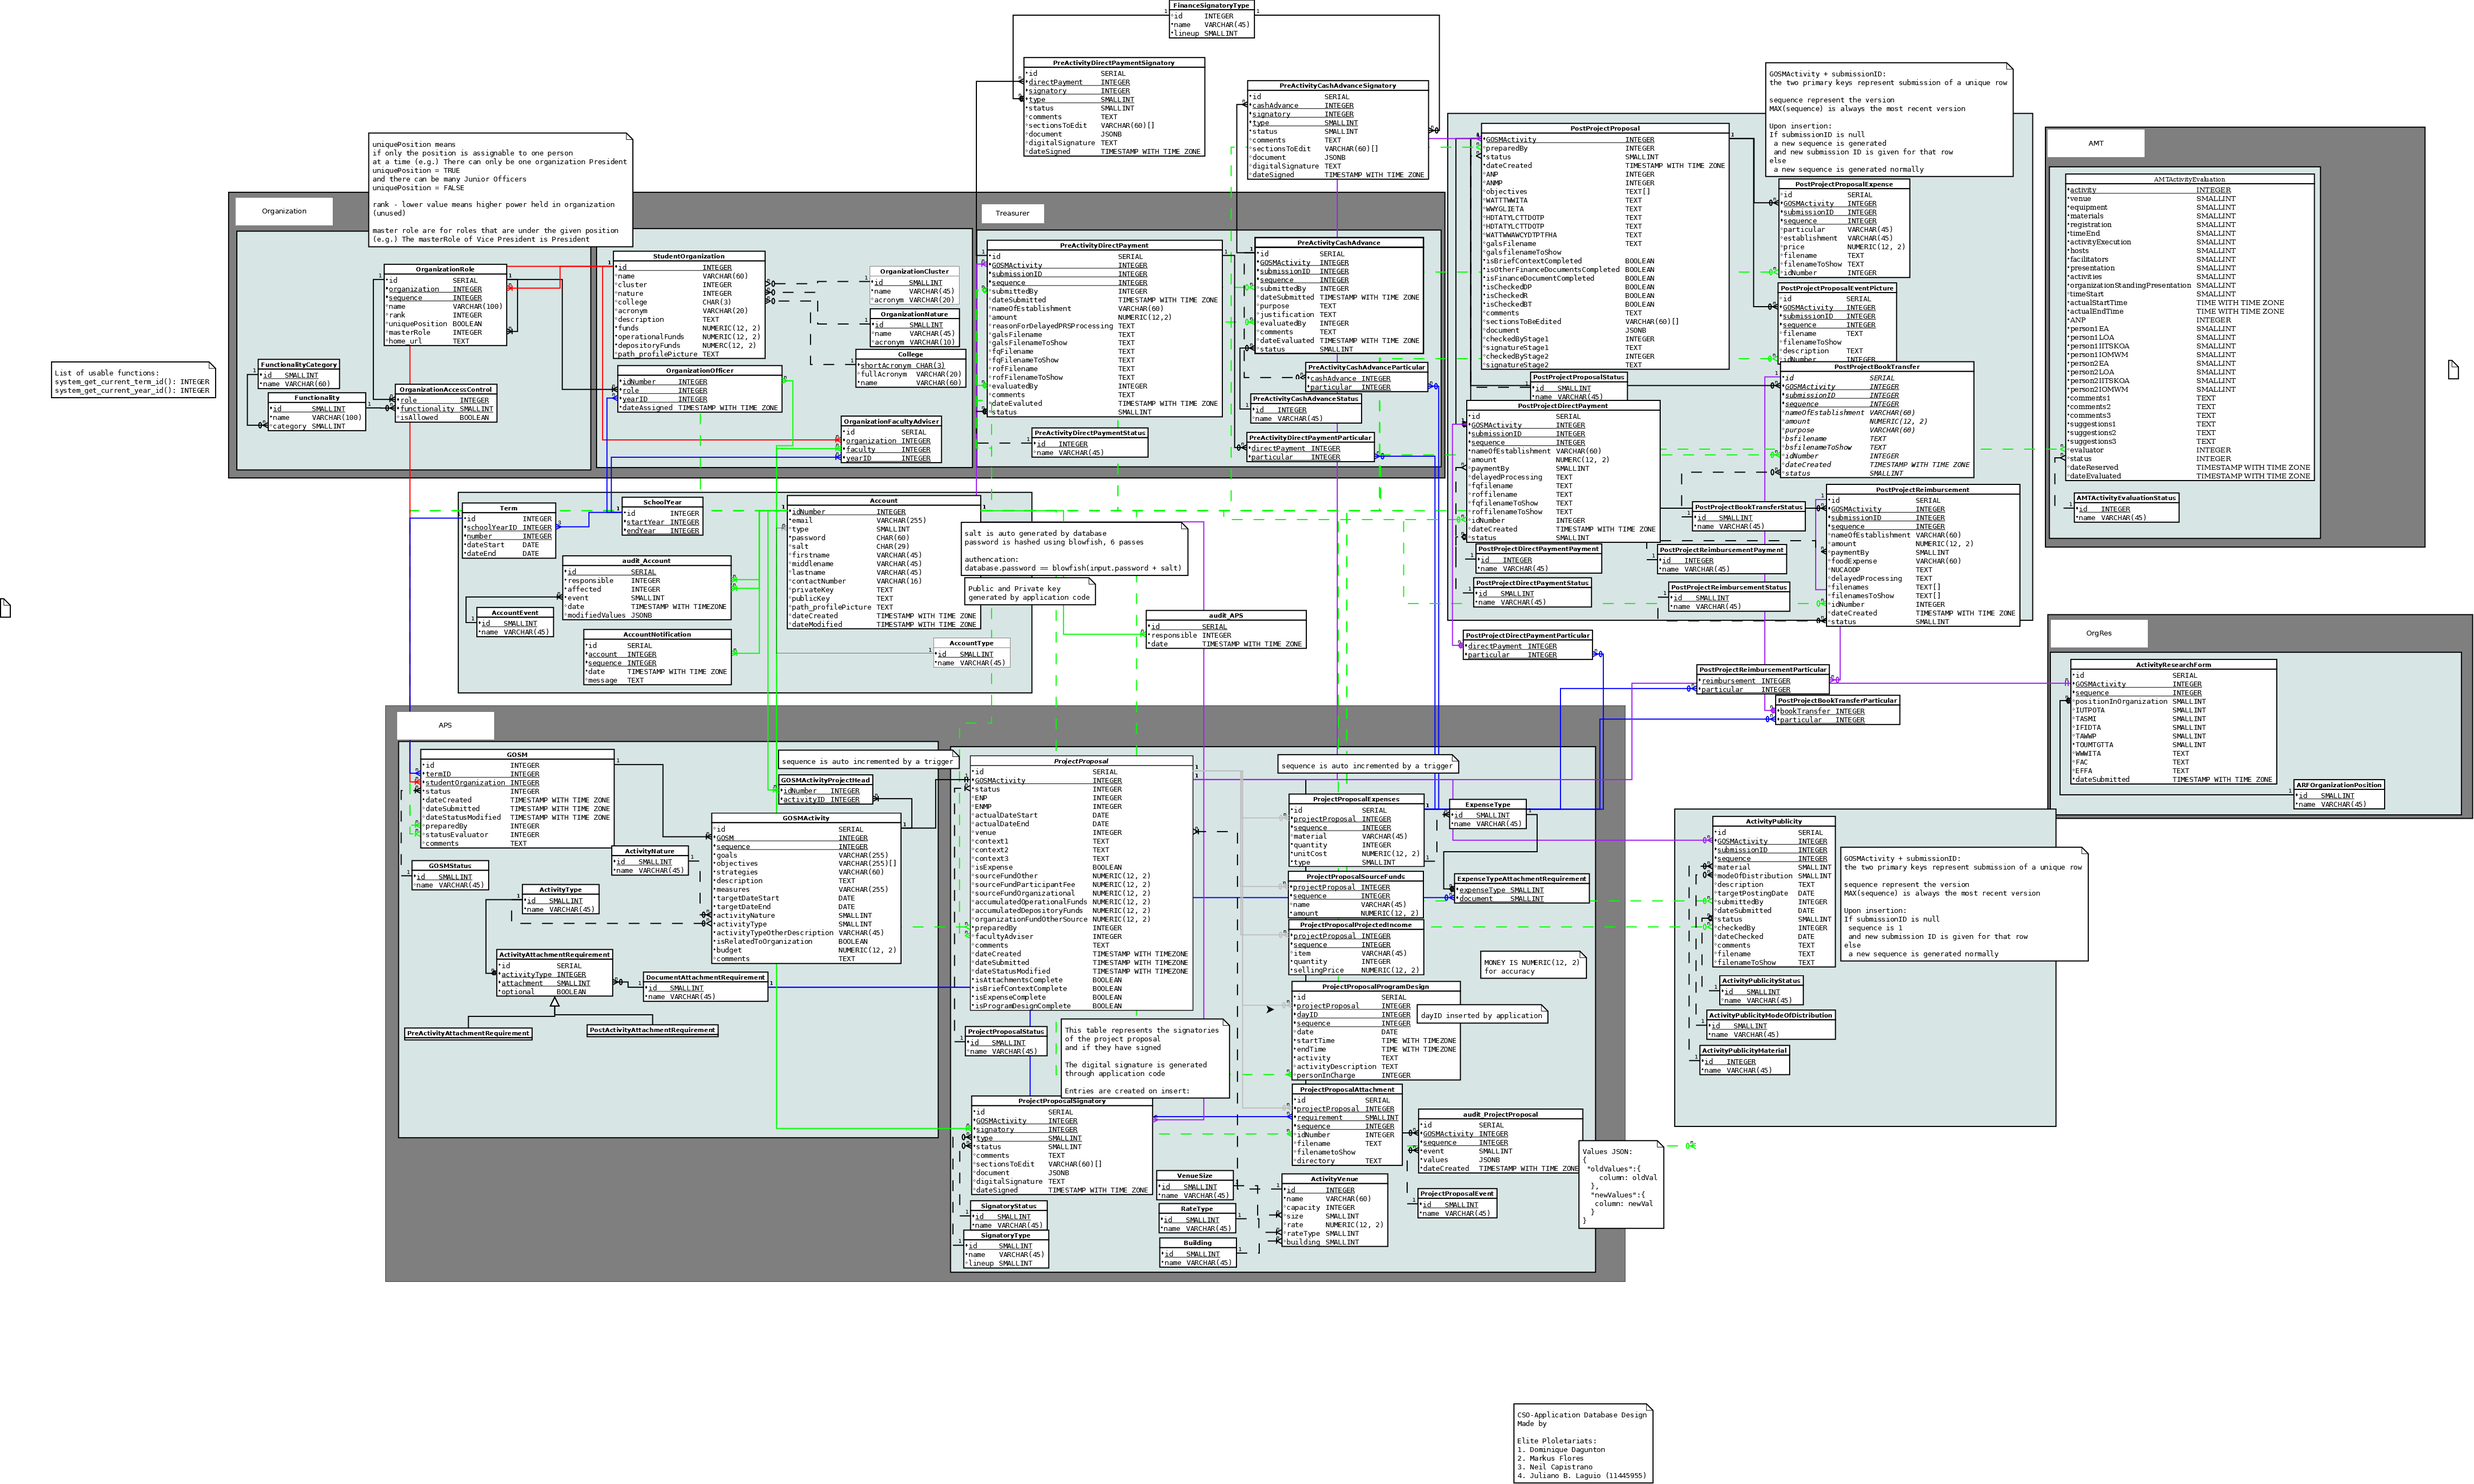
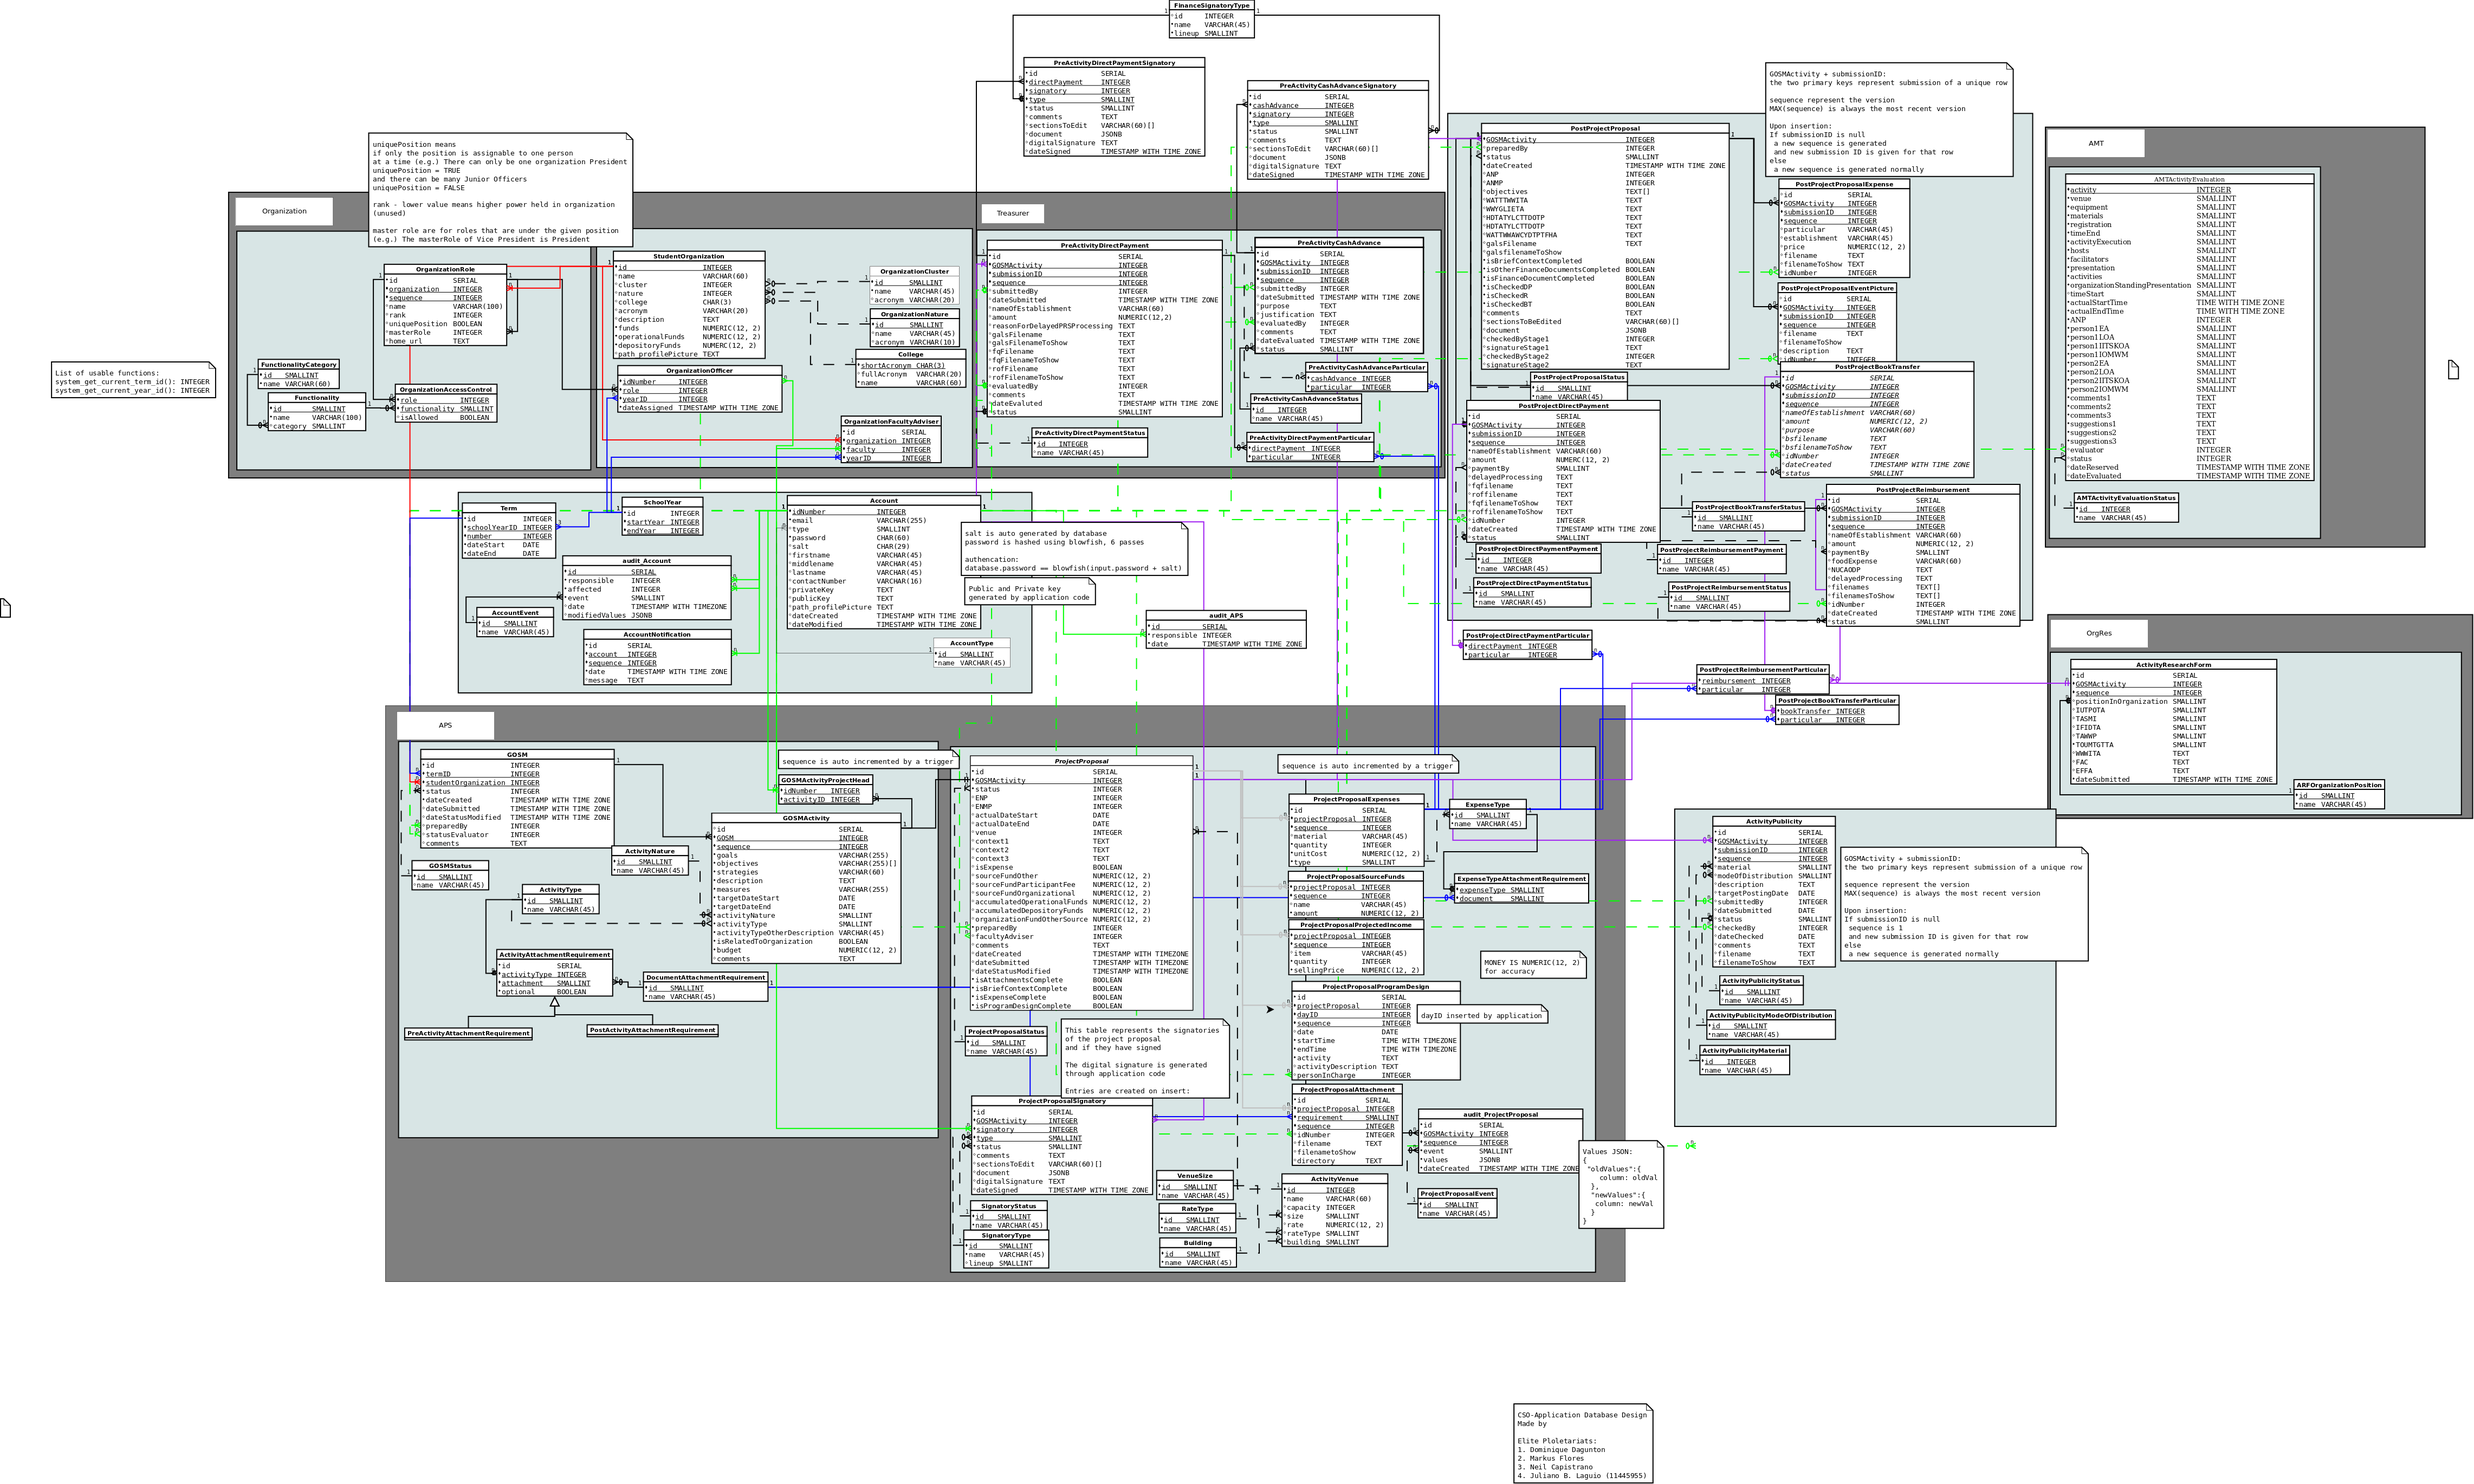
Added Orgres, ADM - VC account, and fixed date formatting

diff --git a/app/pre_middlewares/Student_Sidebar_middleware.js b/app/pre_middlewares/Student_Sidebar_middleware.js
@@ -227,6 +227,11 @@ module.exports = function(configuration, application, modules, database, queryFi
                 newSidebar2.name = 'Post Project';
                 newSidebar2.link = '/ADM/Activity/List';
                 sidebars[sidebars.length] = newSidebar2;
+
+                const newSidebar3 = Object.create(null);
+                newSidebar3.name = 'Activity Research Form';
+                newSidebar3.link = '/Organization/Orgres/list';
+                sidebars[sidebars.length] = newSidebar3;
             }
 
 
